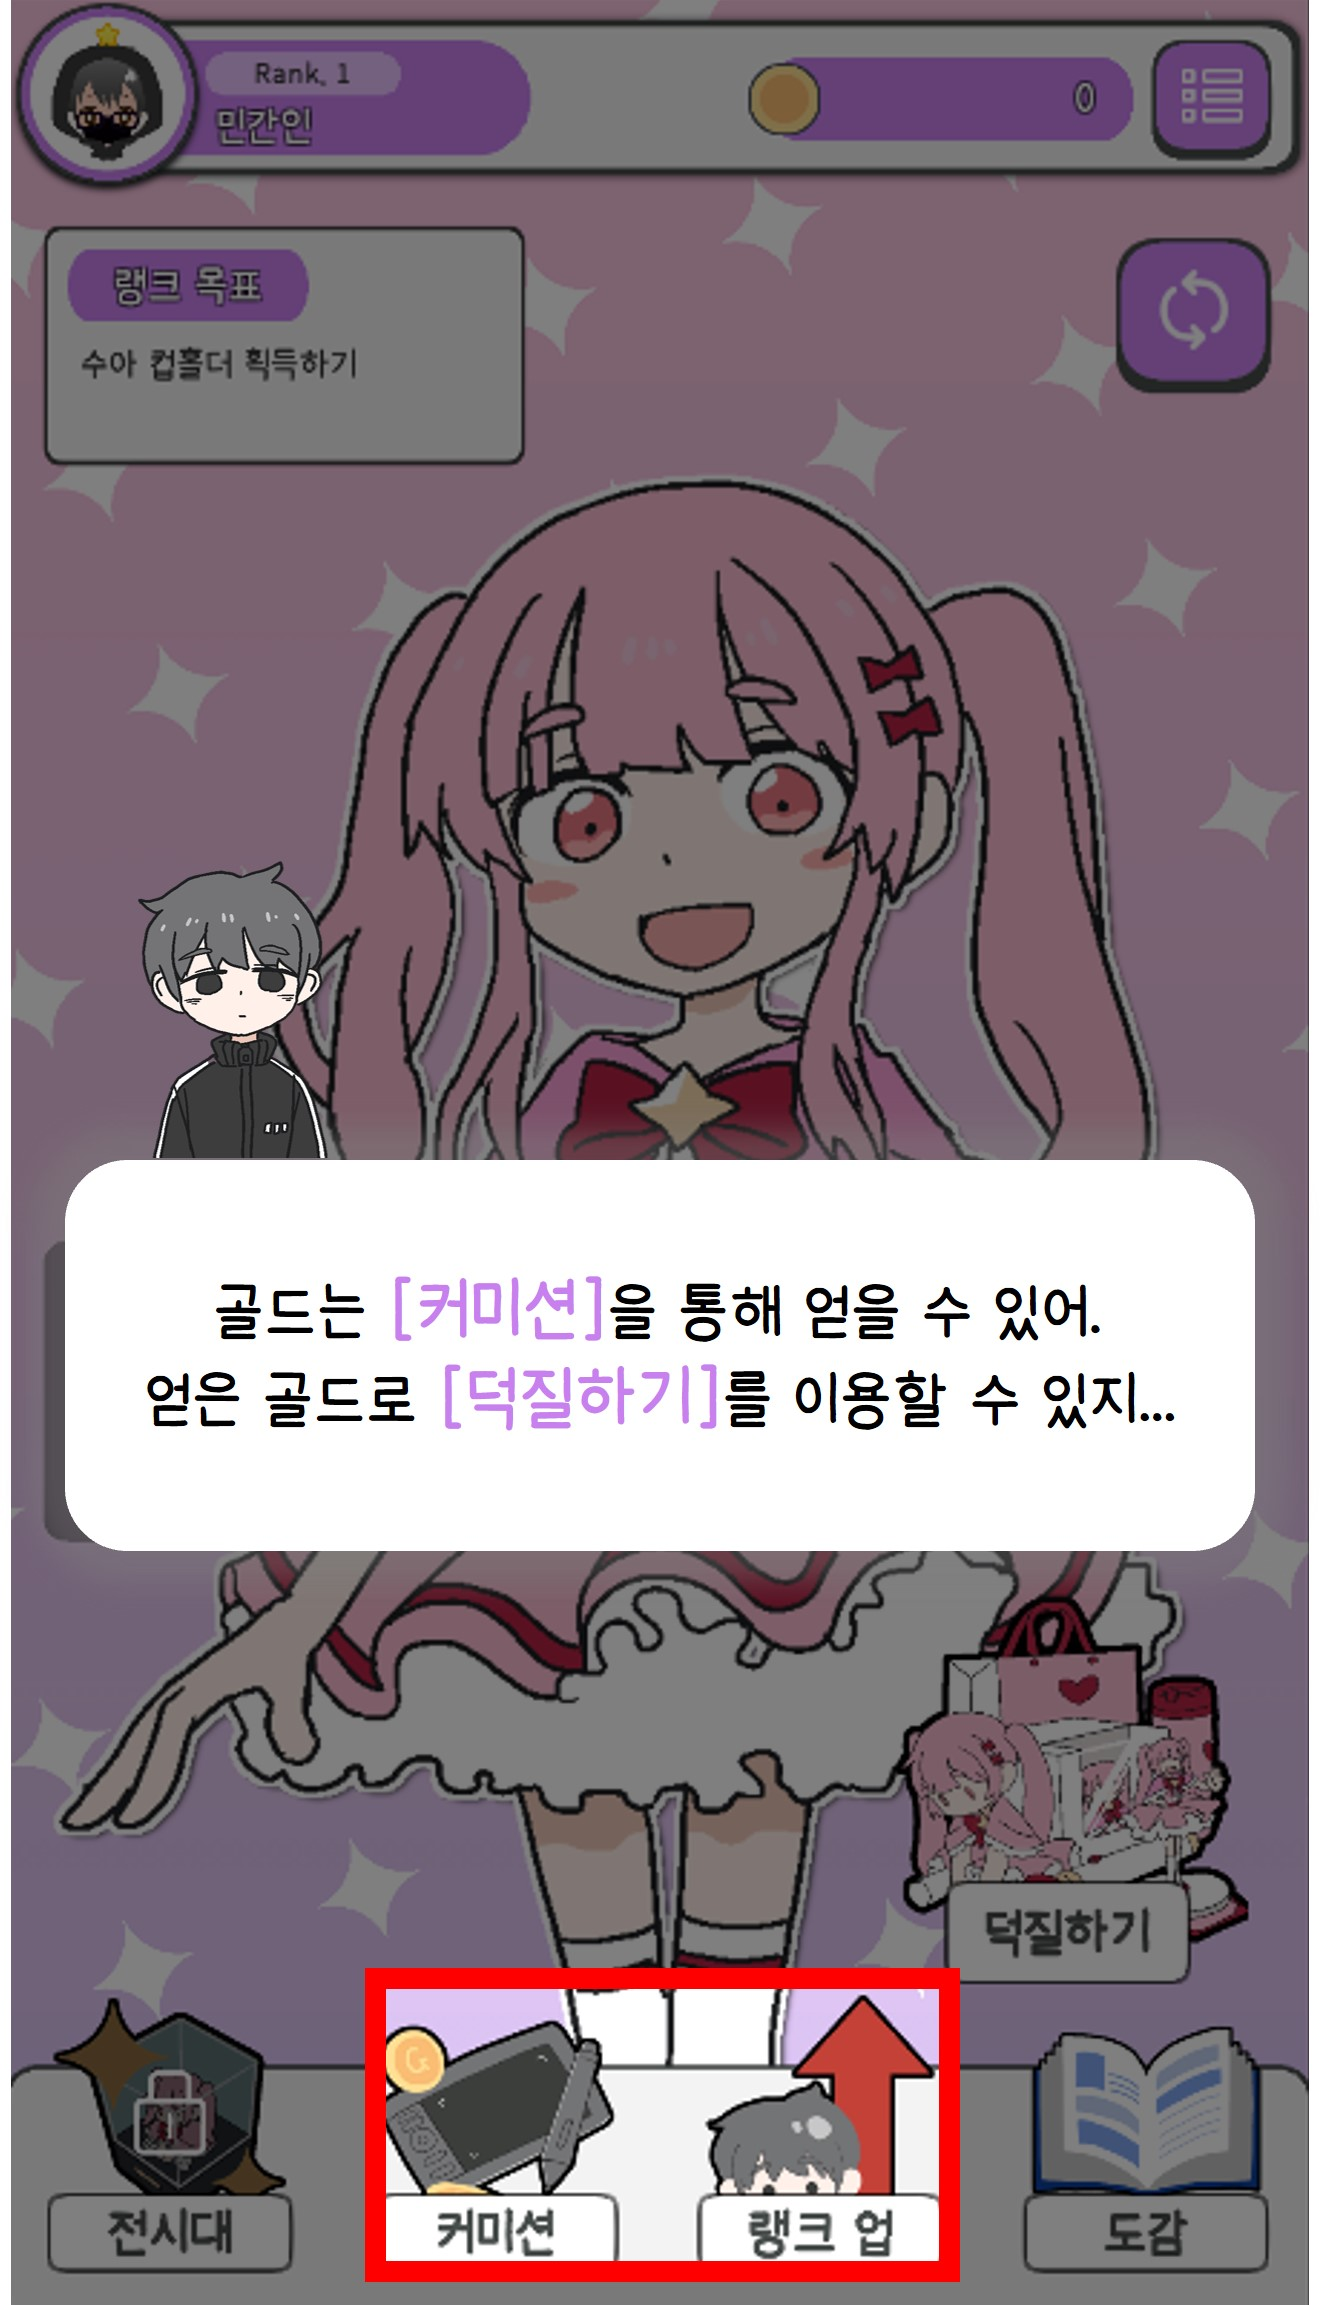
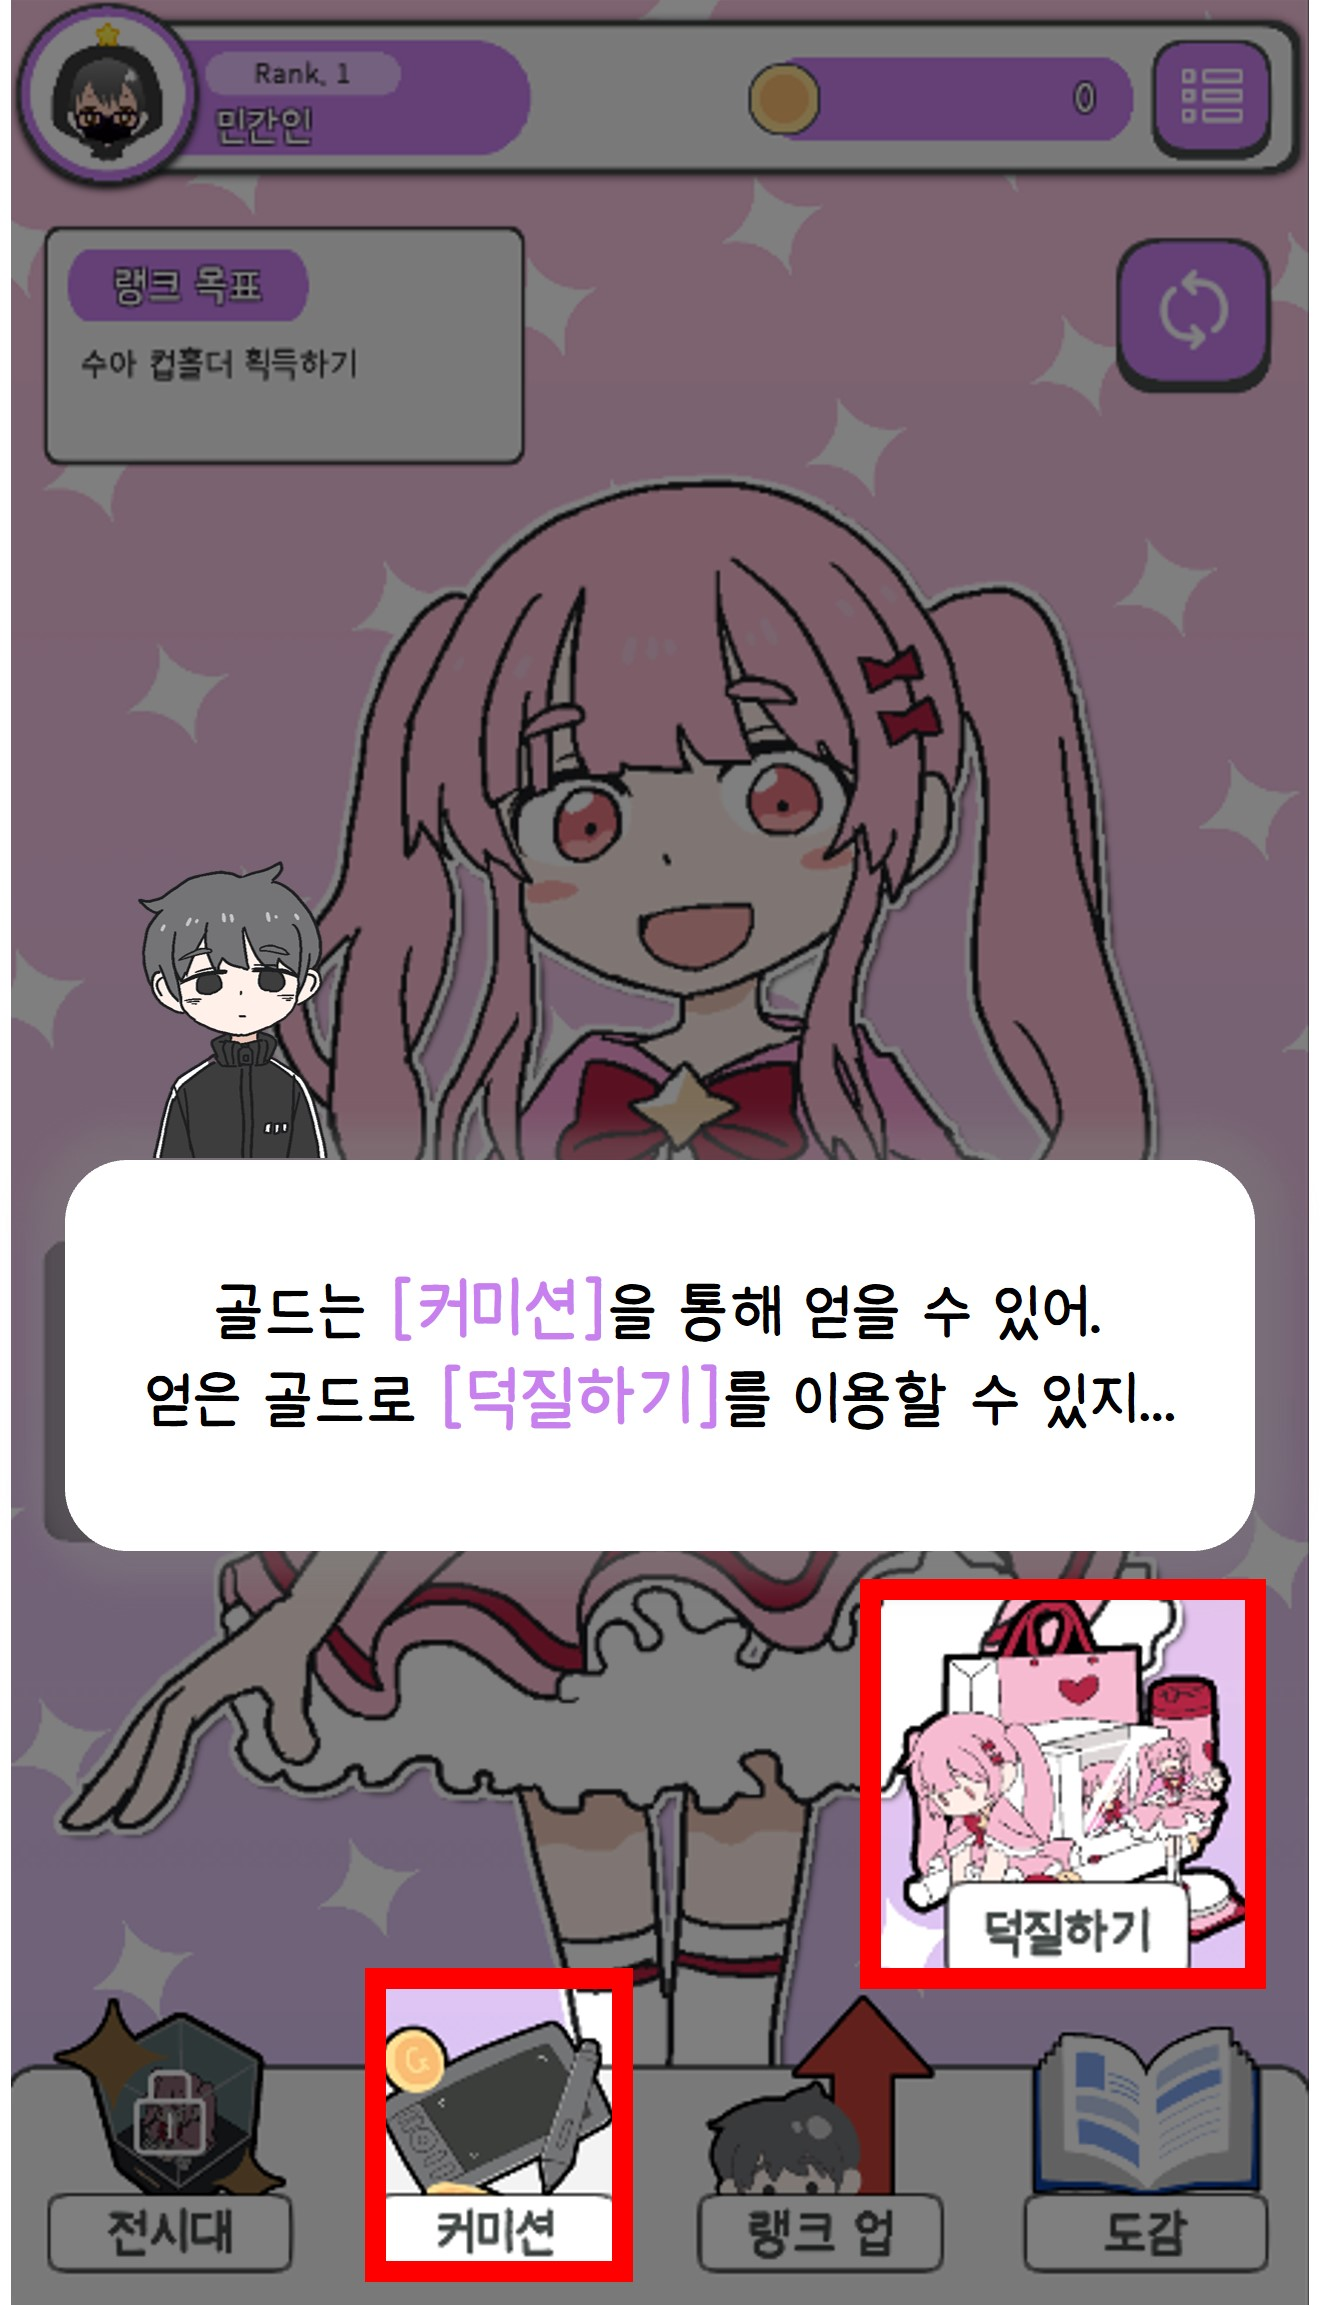
0129_튜토리얼 오류 수정 + 잡다한 오류 수정 및 리소스 교체

Changed region(s): [[0.4659, 0.6872, 0.9629, 0.9996]]

diff --git a/Dedug_game/Assets/Script/RequestManager.cs b/Dedug_game/Assets/Script/RequestManager.cs
@@ -114,7 +114,7 @@ public class RequestManager : MonoBehaviour
 
             ClickTutorial();
             TutorialImg.sprite = TutorialImage1;
-            TutorialClickNum++;
+
         }
         else
         {
@@ -179,7 +179,8 @@ public class RequestManager : MonoBehaviour
     public Sprite TutorialImage9;
 
     public void ClickTutorial()
-    {
+    {    
+
         if (TutorialClickNum == 1)
         {
             TutorialImg.sprite = TutorialImage2;
@@ -210,15 +211,11 @@ public class RequestManager : MonoBehaviour
         }
         else if (TutorialClickNum == 8)
         {
-            TutorialImg.sprite = TutorialImage9;
-        }
-        else if (TutorialClickNum == 9)
-        {
             DataManager.Instance.firstRequest = 1;
             Save();
             TutorialCanvas.gameObject.SetActive(false);
         }
-
+        
         TutorialClickNum++;
     }
 

diff --git a/Dedug_game/Assets/Script/HomePopupManager.cs b/Dedug_game/Assets/Script/HomePopupManager.cs
@@ -68,7 +68,6 @@ public class HomePopupManager : MonoBehaviour
             
             ClickTutorial();
             TutorialImg.sprite = TutorialImage1;
-            TutorialClickNum++;
         }
         else
         {
@@ -152,6 +151,10 @@ public class HomePopupManager : MonoBehaviour
             TutorialImg.sprite = TutorialImage8;
         }
         else if (TutorialClickNum == 8)
+        {
+            TutorialImg.sprite = TutorialImage9;
+        }
+        else if (TutorialClickNum == 9)
         {
             DataManager.Instance.firstGoodsBuy = 1;
             Save();

diff --git a/Dedug_game/Assets/Script/HomeManager.cs b/Dedug_game/Assets/Script/HomeManager.cs
@@ -59,7 +59,7 @@ public class HomeManager : MonoBehaviour
 
             ClickTutorial();
             TutorialImg.sprite = TutorialImage1;
-            TutorialClickNum++;
+
         }
         else
         {
@@ -246,6 +246,7 @@ public class HomeManager : MonoBehaviour
             PlayerPrefs.SetInt("FirstHome", DataManager.Instance.firstHome);
             TutorialCanvas.gameObject.SetActive(false);
         }
+
 
         TutorialClickNum++;
     }

diff --git a/Dedug_game/Assets/Script/RankManager.cs b/Dedug_game/Assets/Script/RankManager.cs
@@ -99,7 +99,6 @@ public class RankManager : MonoBehaviour
 
             ClickTutorial();
             TutorialImg.sprite = TutorialImage1;
-            TutorialClickNum++;
         }
         else
         {
@@ -138,6 +137,7 @@ public class RankManager : MonoBehaviour
     public Sprite TutorialImage3;
     public Sprite TutorialImage4;
     public Sprite TutorialImage5;
+    public Sprite TutorialImage6;
     
 
     public void ClickTutorial()
